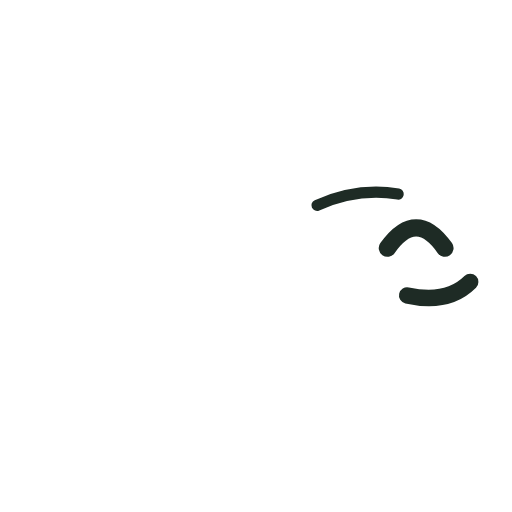
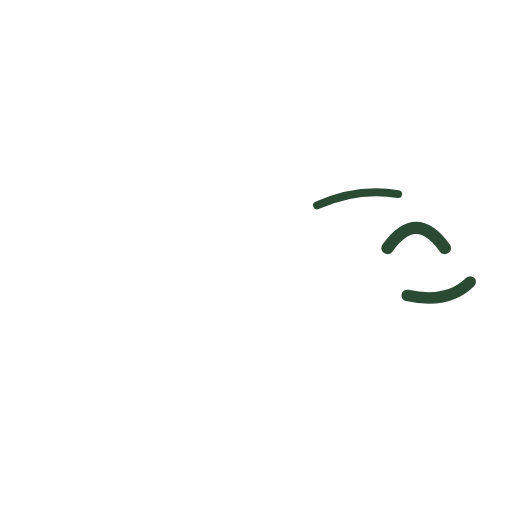
Draw Cameli's lines in a lighter dark green and 30% thinner
The near-black 4.5 outline looked too heavy. cameli.js now uses #2B4A33 at
3.15, with the face lines scaled the same; the line and face layer PNGs are
re-rendered (the fills are unchanged), and CameliFigure.Feet moves up to the
new feet bottom (0.242). The app icon PNGs are left as they are until the icon
is decided again.

Changed region(s): [[0.7188, 0.4062, 0.9062, 0.5], [0.5938, 0.3438, 0.7812, 0.4062], [0.7812, 0.5312, 0.9375, 0.625]]

diff --git a/Tools/CameliArt/cameli.js b/Tools/CameliArt/cameli.js
@@ -4,8 +4,11 @@
 // Units: a 100 x 100 square, y down, facing right. The drawing is made at a larger size and then scaled by FIT into the
 // square (the big tail needs the room); outlines are widened by 1 / FIT so they stay OUTLINE wide in the square.
 const CameliArt = (() => {
-  const INK = "#1E2B25";      // Theme.Ink
-  const OUTLINE = 4.5;        // outline width in the square
+  // Lines in a dark leaf green, lighter and thinner than the UI's Theme.Ink (decided 2026-10-18: the old near-black
+  // 4.5 outline looked too heavy).
+  const INK = "#2B4A33";
+  const OUTLINE = 3.15;       // outline width in the square
+  const FACE = { ridge: 1.54, mouth: 2.24, eye: 2.24, happy: 2.38 };   // face line widths in the square
   const FIT = { x: 10, y: 0.5, s: 0.88 };
 
   // Body, casque and the two half-moon feet share one silhouette (one outline around all of them).
@@ -56,14 +59,14 @@ const CameliArt = (() => {
   const line = OUTLINE / FIT.s;
 
   function face(kind) {
-    let s = `<path d="${RIDGE}" fill="none" stroke="${INK}" stroke-width="${2.2 / FIT.s}" stroke-linecap="round"/>`;
-    s += `<path d="${MOUTH}" fill="none" stroke="${INK}" stroke-width="${3.2 / FIT.s}" stroke-linecap="round"/>`;
+    let s = `<path d="${RIDGE}" fill="none" stroke="${INK}" stroke-width="${FACE.ridge / FIT.s}" stroke-linecap="round"/>`;
+    s += `<path d="${MOUTH}" fill="none" stroke="${INK}" stroke-width="${FACE.mouth / FIT.s}" stroke-linecap="round"/>`;
     const e = EYE;
     if (kind === "happy") {
-      s += `<path d="M${e.x - e.r * 0.85} ${e.y + 1.5} Q ${e.x} ${e.y - e.r} ${e.x + e.r * 0.85} ${e.y + 1.5}" fill="none" stroke="${INK}" stroke-width="${3.4 / FIT.s}" stroke-linecap="round"/>`;
+      s += `<path d="M${e.x - e.r * 0.85} ${e.y + 1.5} Q ${e.x} ${e.y - e.r} ${e.x + e.r * 0.85} ${e.y + 1.5}" fill="none" stroke="${INK}" stroke-width="${FACE.happy / FIT.s}" stroke-linecap="round"/>`;
     } else {
       const oops = kind === "oops";
-      s += `<circle cx="${e.x}" cy="${e.y}" r="${oops ? e.r + 1.5 : e.r}" fill="#FFFFFF" stroke="${INK}" stroke-width="${3.2 / FIT.s}"/>`;
+      s += `<circle cx="${e.x}" cy="${e.y}" r="${oops ? e.r + 1.5 : e.r}" fill="#FFFFFF" stroke="${INK}" stroke-width="${FACE.eye / FIT.s}"/>`;
       s += `<circle cx="${oops ? e.x : e.x + e.r * 0.3}" cy="${e.y}" r="${oops ? e.r * 0.22 : e.r * 0.48}" fill="${INK}"/>`;
     }
     return s;

diff --git a/Assets/Scripts/Cameli/Game/CameliFigure.cs b/Assets/Scripts/Cameli/Game/CameliFigure.cs
@@ -33,7 +33,7 @@ namespace Cameli.Game
         static readonly Vector2 TailJoint = new Vector2(0.324f, 0.489f);
 
         /// <summary>Where Cameli stands in the figure square: between the feet, at their bottom. <see cref="Pose"/> scales around it. Facing left mirrors x.</summary>
-        static readonly Vector2 Feet = new Vector2(0.602f, 0.229f);
+        static readonly Vector2 Feet = new Vector2(0.602f, 0.242f);
 
         const string ArtFolder = "CameliArt/";
         static readonly Dictionary<string, Sprite> sprites = new Dictionary<string, Sprite>();

diff --git a/docs/2단계 화면 명세.md b/docs/2단계 화면 명세.md
@@ -398,9 +398,10 @@
 | 발 | 반달 모양 발 두 개 |
 | 얼굴 | 흰 눈과 눈동자, 눈 위의 얇은 선, 길게 웃는 입 |
 | 무늬 | 없음(몸이 한 색이어야 섞인 색이 잘 보임) |
+| 선 | 진초록 `#2B4A33`, 그림 칸의 3.15% 두께. 얼굴 선도 같은 비율로 가늘게(2026-10-18 바꿈: 먹색 `#1E2B25` 4.5% 선이 너무 진하고 굵어 보였음) |
 
 - **그림 파일** (`Assets/Resources/CameliArt/`, 512×512 투명 PNG 7장)
-  - `body_line`(몸, 투구, 발의 검은 실루엣), `tail_fill`, `tail_line`, `body_fill`, `face_normal`, `face_happy`, `face_oops`
+  - `body_line`(몸, 투구, 발의 진초록 실루엣), `tail_fill`, `tail_line`, `body_fill`, `face_normal`, `face_happy`, `face_oops`
   - 채움(`*_fill`)은 흰색이고 게임이 섞인 색을 곱해 칠합니다. 선과 얼굴은 색이 그대로입니다.
   - 겹치는 순서: 몸 실루엣 → 꼬리 채움 → 꼬리 선 → 몸 채움 → 얼굴. 꼬리가 몸의 테두리를 덮고 몸 채움이 꼬리 뿌리를 덮어서, 꼬리와 엉덩이가 선 없이 이어집니다.
 - **만드는 도구** (`Tools/CameliArt/`): `cameli.js`가 모양을 정하고(앱 아이콘 `icon.html`도 같은 그림을 씀, 20절), `cameli.html`이 레이어로 나누고, `render.sh`가 크롬으로 레이어마다 PNG를 뽑습니다. 모양을 고치면 `render.sh`를 다시 돌립니다(아이콘도 함께 다시 뽑힘). `cameli.html?layer=preview`로 색을 칠한 모습을 미리 볼 수 있습니다.
@@ -408,7 +409,7 @@
 - **게임에서** (`CameliFigure`)
   - 그림 전체를 칸(정사각형) 안에 맞췄습니다. 꼬리가 커서 몸은 칸 너비의 약 60%입니다.
   - 꼬리 흔들기의 중심은 꼬리가 엉덩이에서 나오는 곳(그림의 왼쪽에서 32%, 아래에서 49%)입니다.
-  - 통통 뛰기의 찌그러짐 중심은 두 발 사이의 바닥(왼쪽에서 60%, 아래에서 23%)입니다. 왼쪽을 볼 때는 좌우가 바뀌어 왼쪽에서 40%입니다.
+  - 통통 뛰기의 찌그러짐 중심은 두 발 사이의 바닥(왼쪽에서 60%, 아래에서 24%. 선이 가늘어진 만큼 23%에서 올림)입니다. 왼쪽을 볼 때는 좌우가 바뀌어 왼쪽에서 40%입니다.
   - 표정은 얼굴 그림 세 장 중 하나를 켭니다.
 - 예전 코드 그림(볏, 꼬리, "^" 눈 모양)은 `SpriteFactory`에서 지웠습니다.
 
@@ -425,6 +426,7 @@
     - `icon_ios`: 불투명 정사각형. iOS 아이콘 전부와 기본 아이콘(Android 8.0 미만도 이것을 씀). 모서리는 기기가 둥글게 자릅니다.
     - `icon_android_bg`, `icon_android_fg`: Android 적응형 아이콘의 배경(바탕, 잎, 꽃)과 앞 그림(카멜리). 108 캔버스의 가운데 72가 위 아이콘과 같습니다.
   - "Cameli → 모바일 프로젝트 설정 적용"이 프로젝트 설정에 넣습니다. 그림을 다시 뽑으면 같은 파일이 바뀌므로 메뉴는 한 번만 실행하면 됩니다.
+  - 2026-10-18 카멜리 선을 바꿨지만(19절) 아이콘 파일은 아직 예전 굵은 먹색 선입니다. 아이콘은 시안 Q7(카멜리 선과 몸 색), Q8(게임 모습을 담은 아이콘)로 다시 정하는 중이라 그때 함께 다시 뽑습니다.
 - **시작 화면:** "Made with Unity"를 끕니다(Unity 6부터 모든 라이선스 선택 사항). 불러오는 동안 화면은 타이틀 바탕과 같은 연한 색(`Theme.Background`)이고, iOS 시작 화면도 같은 단색입니다. 같은 메뉴가 설정합니다.
 - **타이틀 글자**
   - 두 줄, 줄 간격 1.0, 글자 크기 200(전에는 한 줄 116): 위 "Cameli"는 잎 초록(`Theme.Primary`), 아래 "Garden"은 동백 빨강(`Theme.Accent`)

diff --git a/docs/1018 작업 정리.md b/docs/1018 작업 정리.md
@@ -1,0 +1,51 @@
+# 작업 정리: 2026-10-18 (1018)
+
+앱 아이콘에서 카멜리가 배경과 따로 노는 문제를 상의하다가, 카멜리 선을 게임 전체에서 연하고 가늘게 바꾼 날입니다.
+
+---
+
+## 1. 카멜리 선
+
+| 질문 | 결정 |
+|---|---|
+| 선 색 | 먹색 `#1E2B25` → 진초록 `#2B4A33` |
+| 선 두께 | 그림 칸의 4.5% → 3.15%(30% 가늘게). 눈, 입, 눈 위 선도 같은 비율 |
+| 몸 색 | 그대로(게임에서 섞인 색으로 물듦) |
+
+- 시안 Q7의 5번(진초록 얇은 선) 그림을 보고 "연한 느낌과 얇은 느낌"으로 바꾸기로 했습니다. 지금 선이 너무 진하다는 의견이었습니다.
+- `Tools/CameliArt/cameli.js`의 선 색과 두께를 바꾸고 레이어 PNG를 다시 뽑았습니다. 선과 얼굴 5장이 바뀌었고 채움 2장은 그대로입니다.
+- 선이 가늘어진 만큼 발 바닥이 올라가서, 통통 뛸 때 찌그러지는 중심(`CameliFigure.Feet`)을 아래에서 23% → 24%로 옮겼습니다.
+- 판 위, 타이틀, 말풍선의 카멜리가 모두 바뀝니다(모두 같은 PNG를 씀).
+- 앱 아이콘 파일은 다시 뽑지 않았습니다. 아이콘은 아래 3절에서 다시 정하는 중이라 그때 함께 뽑습니다.
+- 화면 명세 19, 20절에 반영했습니다.
+
+---
+
+## 2. 검증
+
+| 대상 | 결과 |
+|---|---|
+| 검증 3개 | 코어 69/69, 컴파일 OK ×3, 스테이지 49개 OK |
+| 새 레이어 PNG | 512×512 투명 PNG 그대로, 선 색 `#2B4A33`, `.meta` 그대로. Unity가 오류 없이 다시 불러옴 |
+| 발 바닥 위치 | 새 선 그림에서 잰 값 0.242 = `Feet` |
+| 칸 위에서 보기 | 흰색(아무것도 안 먹음), 주황, 하늘, 노랑, 연두, 남색 몸으로 150px, 80px에 그려 봄. 흰 몸도 바닥 칸에서 윤곽이 보임. 남색 몸에서는 선이 몸과 비슷해 보이지만 바닥 칸과의 차이로 모양은 보임 |
+
+- `CameliFigure.cs` 수정은 Unity가 아직 다시 컴파일하지 않았습니다(에디터를 다시 누르면 됩니다).
+
+---
+
+## 3. 상의 중
+
+시안 페이지: https://claude.ai/artifact/JZP8Rx5aEmC8CXeox8rBRd (맨 위 Q7, Q8)
+
+- **Q7 아이콘의 카멜리:** 배경은 마음에 드는데 카멜리가 따로 논다는 의견. 이유를 선(카멜리만 검고 굵음)과 색(카멜리만 흰색)으로 보고, 선과 몸 색을 바꾼 6개 시안을 그렸습니다. 선은 1절에서 정해졌고, 몸 색이 남았습니다.
+- **Q8 게임 모습을 담은 아이콘:** 다른 퍼즐 게임 아이콘처럼 게임 규칙이 보이는 6개 시안(칸 클로즈업, 색 더하기, 걸어온 길, 정원 디오라마, 목표 꽃 피우기, 꽃 배경 + 작은 보드). 추천은 정원 디오라마입니다.
+- 아이콘은 잠시 미뤄 두기로 했습니다.
+
+---
+
+## 4. 남은 일
+
+- **직접:** Unity에서 Play로 새 카멜리 선(판 위, 타이틀, 말풍선) 확인
+- **직접:** 1017 4절의 남은 확인(새 타이틀 글자, 클리어 꽃잎 등)과 "Cameli → 모바일 프로젝트 설정 적용" 한 번 누르기
+- 앱 아이콘 다시 정하기(3절). 정하면 `icon.html`을 고치고 `render.sh`로 아이콘을 다시 뽑습니다.
